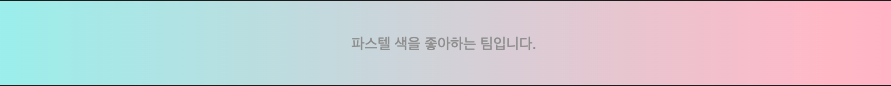
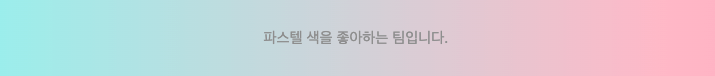
[docs] pastel 로고 이미지 수정
pastel 로고 이미지 수정

Changed region(s): [[0.3692, 0.3947, 0.6462, 0.5789], [0.0, 0.9737, 1.0, 1.0], [0.0, 0.0, 1.0, 0.0263]]

diff --git a/README.md b/README.md
@@ -2,6 +2,8 @@
 
 ## 🎨 Team Pastel
 
+<br>
+
 ![](./docs/images/pastel.png)
 
 <br>
